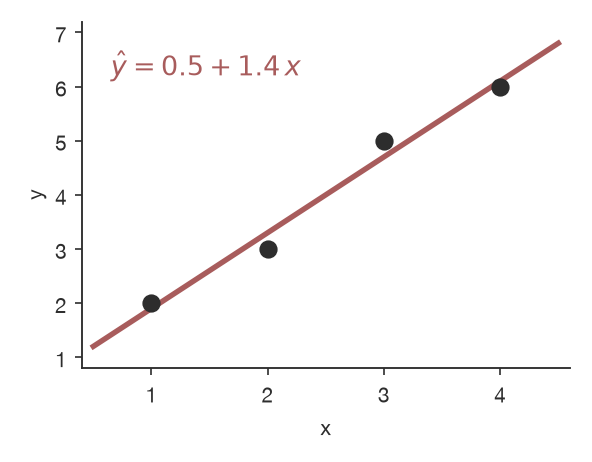
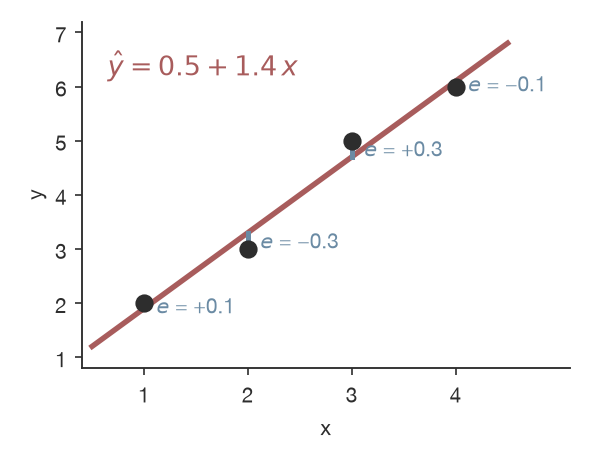
Topic 14: slide 8 shows the residuals e = y - y-hat as what we can see of epsilon; R-squared and RMSE/train-test are their own slides (9 and 10), later slides renumbered

diff --git a/ch14-ols-diagnostics/index.html b/ch14-ols-diagnostics/index.html
@@ -1,7 +1,7 @@
 <!doctype html>
 <html lang="en">
 <head>
-<meta name="deck-build" content="public; speaker notes removed by strip_notes.py; out=3ca197610a1e0969497c0571c01f6446">
+<meta name="deck-build" content="public; speaker notes removed by strip_notes.py; out=e7fc4d876fde401862221713a1c17992">
   <meta charset="utf-8">
   <meta name="viewport" content="width=device-width, initial-scale=1.0">
   <title>OLS Diagnostics: When OLS Fails</title>
@@ -156,21 +156,20 @@
       <p style="font-size: 15pt; color: var(--muted-color); font-style: italic;">You went to IV and RD. This is what the shared track established while you were away &mdash; and one theorem Chapter 24 is built on.</p>
     </section>
 
-    <section>
     <section id="beta-scorecards" style="padding: 26px 46px;">
       <h2><i class="fa-solid fa-cube" style="color: var(--secondary-color);"></i> 1. Where the Coefficients Come From, Step by Step</h2>
       <div class="content">
         <p style="font-size: 14.5pt; margin: 0 0 10px;">Four rows, one \(x\), and an intercept. Every regression&rsquo;s coefficients come from the same four steps: \(\boldsymbol{\hat{\beta}} = (\mathbf{X}'\mathbf{X})^{-1}\mathbf{X}'\mathbf{y}\).</p>
         <div style="display: grid; grid-template-columns: 1.25fr 1fr 0.8fr 1.15fr 0.85fr; gap: 10px; align-items: stretch;">
-          <div style="background: #f8f6f3; border-radius: 10px; padding: 10px 12px; text-align: center;"><p style="font-size: 12pt; font-weight: 700; color: var(--secondary-color); margin: 0 0 4px;">The data</p><p style="font-size: 15pt; margin: 0;">\(\mathbf{X}=\begin{bmatrix}1&1\\1&2\\1&3\\1&4\end{bmatrix}\;\mathbf{y}=\begin{bmatrix}2\\3\\5\\6\end{bmatrix}\)</p><p style="font-size: 11.5pt; color: var(--muted-color); margin: 4px 0 0; line-height: 1.3;">the column of 1s is the intercept</p></div>
+          <div style="background: #f8f6f3; border-radius: 10px; padding: 10px 12px; text-align: center;"><p style="font-size: 12pt; font-weight: 700; color: var(--secondary-color); margin: 0 0 4px;">The data</p><p style="font-size: 15pt; margin: 0;">\(\mathbf{X}=\begin{bmatrix}1&1\\1&2\\1&3\\1&4\end{bmatrix}\;\mathbf{y}=\begin{bmatrix}2\\3\\5\\6\end{bmatrix}\)</p><p style="font-size: 11.5pt; color: var(--muted-color); margin: 4px 0 0; line-height: 1.3;">model: \(\mathbf{y}=\mathbf{X}\boldsymbol{\beta}+\boldsymbol{\varepsilon}\); the 1s are the intercept</p></div>
           <div class="fragment fade-up" data-fragment-index="1" style="background: #f0f5f8; border-radius: 10px; padding: 10px 12px; text-align: center;"><p style="font-size: 12pt; font-weight: 700; color: var(--secondary-color); margin: 0 0 4px;">Step 1 &middot; \(\mathbf{X}'\mathbf{X}\)</p><p style="font-size: 15pt; margin: 0;">\(\begin{bmatrix}4&10\\10&30\end{bmatrix}\)</p><p style="font-size: 11.5pt; color: var(--muted-color); margin: 4px 0 0; line-height: 1.3;">\(n\), \(\sum x\); \(\sum x\), \(\sum x^2\)</p></div>
           <div class="fragment fade-up" data-fragment-index="2" style="background: #f0f5f8; border-radius: 10px; padding: 10px 12px; text-align: center;"><p style="font-size: 12pt; font-weight: 700; color: var(--secondary-color); margin: 0 0 4px;">Step 2 &middot; \(\mathbf{X}'\mathbf{y}\)</p><p style="font-size: 15pt; margin: 0;">\(\begin{bmatrix}16\\47\end{bmatrix}\)</p><p style="font-size: 11.5pt; color: var(--muted-color); margin: 4px 0 0; line-height: 1.3;">\(\sum y\), \(\sum xy\)</p></div>
           <div class="fragment fade-up" data-fragment-index="3" style="background: #fdf0ea; border-radius: 10px; padding: 10px 12px; text-align: center;"><p style="font-size: 12pt; font-weight: 700; color: var(--secondary-color); margin: 0 0 4px;">Step 3 &middot; invert</p><p style="font-size: 15pt; margin: 0;">\(\tfrac{1}{20}\begin{bmatrix}30&-10\\-10&4\end{bmatrix}\)</p><p style="font-size: 11.5pt; color: var(--muted-color); margin: 4px 0 0; line-height: 1.3;">20 = 4&middot;30 &minus; 10&middot;10</p></div>
           <div class="fragment fade-up" data-fragment-index="4" style="background: #eef5ee; border-radius: 10px; padding: 10px 12px; text-align: center;"><p style="font-size: 12pt; font-weight: 700; color: var(--secondary-color); margin: 0 0 4px;">Step 4 &middot; multiply</p><p style="font-size: 15pt; margin: 0;">\(\boldsymbol{\hat{\beta}}=\begin{bmatrix}0.5\\1.4\end{bmatrix}\)</p><p style="font-size: 11.5pt; color: var(--muted-color); margin: 4px 0 0; line-height: 1.3;">intercept 0.5, slope 1.4</p></div>
         </div>
         <div class="fragment fade-up" data-fragment-index="4" style="display: grid; grid-template-columns: 0.6fr 1.9fr; gap: 20px; align-items: center; margin-top: 10px;">
-          <img src="figures/figure_015_beta_toy.png" alt="The four points (1, 2), (2, 3), (3, 5), (4, 6) and the fitted line y-hat = 0.5 + 1.4 x" style="width: 100%; max-height: 210px; object-fit: contain;">
-          <p style="font-size: 14.5pt; line-height: 1.5; margin: 0;">That is the line through the four points. California&rsquo;s coefficients are the same four steps with 20,640 rows and four columns. With more than one \(x\), each \(\hat{\beta}_j\) is a <strong>partial effect</strong>: the change in \(y\) per unit of \(x_j\), holding the other columns fixed.</p>
+          <img src="figures/figure_015_beta_toy.png" alt="The four points (1, 2), (2, 3), (3, 5), (4, 6), the fitted line y-hat = 0.5 + 1.4 x, and the residuals e = 0.1, minus 0.3, 0.3, minus 0.1 drawn as vertical gaps" style="width: 100%; max-height: 210px; object-fit: contain;">
+          <p style="font-size: 14pt; line-height: 1.5; margin: 0;">The line through the four points. Its gaps are the <strong>residuals</strong> \(e = y - \hat{y}\): 0.1, &minus;0.3, 0.3, &minus;0.1. They are what we can see of \(\boldsymbol{\varepsilon}\), the errors around the <em>true</em> line, which we never see; every standard error in this topic is a claim about \(\boldsymbol{\varepsilon}\). With more than one \(x\), each \(\hat{\beta}_j\) is a <strong>partial effect</strong>, holding the other columns fixed.</p>
         </div>
       </div>
     </section>
@@ -202,7 +201,6 @@
         <img class="fragment fade-up" data-fragment-index="1" src="figures/figure_018_overfitting.png" alt="Training RMSE falling slightly from 0.62 to 0.59 as the polynomial degree in income rises from 1 to 9, while test RMSE rises from 0.84 to 45.03" style="width: 62%; display: block; margin: 8px auto 0;">
         <p class="fragment fade-up" data-fragment-index="2" style="font-size: 14.5pt; line-height: 1.5; margin: 6px 0 0;">Fit on 60 rows, scored on rows it never saw. Training error can only fall as the model bends more, and in-sample \(R^2\) can only rise. <strong>Test RMSE is the honest score</strong>: lowest at degree 1, 45.03 at degree 9.</p>
       </div>
-    </section>
     </section>
 
     <section>
@@ -451,7 +449,7 @@
             <div class="fragment fade-up" data-fragment-index="1" style="margin: 0 0 6px;"><p style="font-size: 14pt; margin: 0;"><strong style="color: var(--secondary-color);">Step 2 &middot; Take the variance.</strong> The weights come out on both sides, as \(\text{Var}(a\,e) = a\,\text{Var}(e)\,a\) for a number \(a\):</p><p style="font-size: 15pt; margin: 0;">$$\text{Var}(\boldsymbol{\hat{\beta}} \mid \mathbf{X}) = \mathbf{A}\,\boldsymbol{\Omega}\,\mathbf{A}', \qquad \boldsymbol{\Omega} = E[\boldsymbol{\varepsilon}\boldsymbol{\varepsilon}' \mid \mathbf{X}]$$</p></div>
             <div class="fragment fade-up" data-fragment-index="2" style="margin: 0 0 6px;"><p style="font-size: 14pt; margin: 0;"><strong style="color: var(--secondary-color);">Step 3 &middot; Write A out.</strong> </p><p style="font-size: 15pt; margin: 0;">$$\text{Var}(\boldsymbol{\hat{\beta}} \mid \mathbf{X}) = (\mathbf{X}'\mathbf{X})^{-1}\;\mathbf{X}'\boldsymbol{\Omega}\mathbf{X}\;(\mathbf{X}'\mathbf{X})^{-1}$$</p></div>
           </div>
-          <div class="fragment fade-up" data-fragment-index="2"><div class="mathjax_ignore tex2jax_ignore"><svg viewBox="0 0 420 300" xmlns="http://www.w3.org/2000/svg" role="img" font-family="inherit" style="width:100%;display:block" aria-label="A sandwich: top bread is X prime X inverse, the filling is X prime Omega X, bottom bread is X prime X inverse; the errors enter only through the filling"><rect x="40" y="18" width="340" height="62" rx="30" fill="#E8C9A0" stroke="#B98A55" stroke-width="2"/><text x="210" y="47" text-anchor="middle" font-size="22" font-weight="700" fill="#5A3E1E">(X′X)⁻¹</text><text x="210" y="69" text-anchor="middle" font-size="13" fill="#5A3E1E">bread: the data only</text><rect x="30" y="94" width="360" height="92" rx="12" fill="#F3D6CF" stroke="#A85C5C" stroke-width="2.5"/><text x="210" y="132" text-anchor="middle" font-size="24" font-weight="700" fill="#7A2E2E">X′ ΩX</text><text x="210" y="156" text-anchor="middle" font-size="13.5" fill="#7A2E2E">filling: the only place the errors enter</text><text x="210" y="175" text-anchor="middle" font-size="12.5" fill="#7A2E2E">Ω = the square from 13.2</text><rect x="40" y="200" width="340" height="62" rx="30" fill="#E8C9A0" stroke="#B98A55" stroke-width="2"/><text x="210" y="229" text-anchor="middle" font-size="22" font-weight="700" fill="#5A3E1E">(X′X)⁻¹</text><text x="210" y="251" text-anchor="middle" font-size="13" fill="#5A3E1E">bread: the data only</text><text x="210" y="290" text-anchor="middle" font-size="13" fill="#6b645e">Var(β̂ | X) = bread · filling · bread</text></svg></div></div>
+          <div class="fragment fade-up" data-fragment-index="2"><div class="mathjax_ignore tex2jax_ignore"><svg viewBox="0 0 420 300" xmlns="http://www.w3.org/2000/svg" role="img" font-family="inherit" style="width:100%;display:block" aria-label="A sandwich: top bread is X prime X inverse, the filling is X prime Omega X, bottom bread is X prime X inverse; the errors enter only through the filling"><rect x="40" y="18" width="340" height="62" rx="30" fill="#E8C9A0" stroke="#B98A55" stroke-width="2"/><text x="210" y="47" text-anchor="middle" font-size="22" font-weight="700" fill="#5A3E1E">(X′X)⁻¹</text><text x="210" y="69" text-anchor="middle" font-size="13" fill="#5A3E1E">bread: the data only</text><rect x="30" y="94" width="360" height="92" rx="12" fill="#F3D6CF" stroke="#A85C5C" stroke-width="2.5"/><text x="210" y="132" text-anchor="middle" font-size="24" font-weight="700" fill="#7A2E2E">X′ ΩX</text><text x="210" y="156" text-anchor="middle" font-size="13.5" fill="#7A2E2E">filling: the only place the errors enter</text><text x="210" y="175" text-anchor="middle" font-size="12.5" fill="#7A2E2E">Ω = the square from 15.2</text><rect x="40" y="200" width="340" height="62" rx="30" fill="#E8C9A0" stroke="#B98A55" stroke-width="2"/><text x="210" y="229" text-anchor="middle" font-size="22" font-weight="700" fill="#5A3E1E">(X′X)⁻¹</text><text x="210" y="251" text-anchor="middle" font-size="13" fill="#5A3E1E">bread: the data only</text><text x="210" y="290" text-anchor="middle" font-size="13" fill="#6b645e">Var(β̂ | X) = bread · filling · bread</text></svg></div></div>
         </div>
         <div class="fragment fade-up" data-fragment-index="3" style="background: #f8f6f3; border-left: 4px solid var(--primary-color); border-radius: 8px; padding: 10px 20px; margin-top: 6px;">
           <p style="font-size: 14.5pt; margin: 0;"><strong>Exact</strong>, assuming nothing beyond strict exogeneity. Whatever \(\boldsymbol{\Omega}\) is, it enters only through the filling. <strong>Every robust formula is a different guess at the filling.</strong></p>
